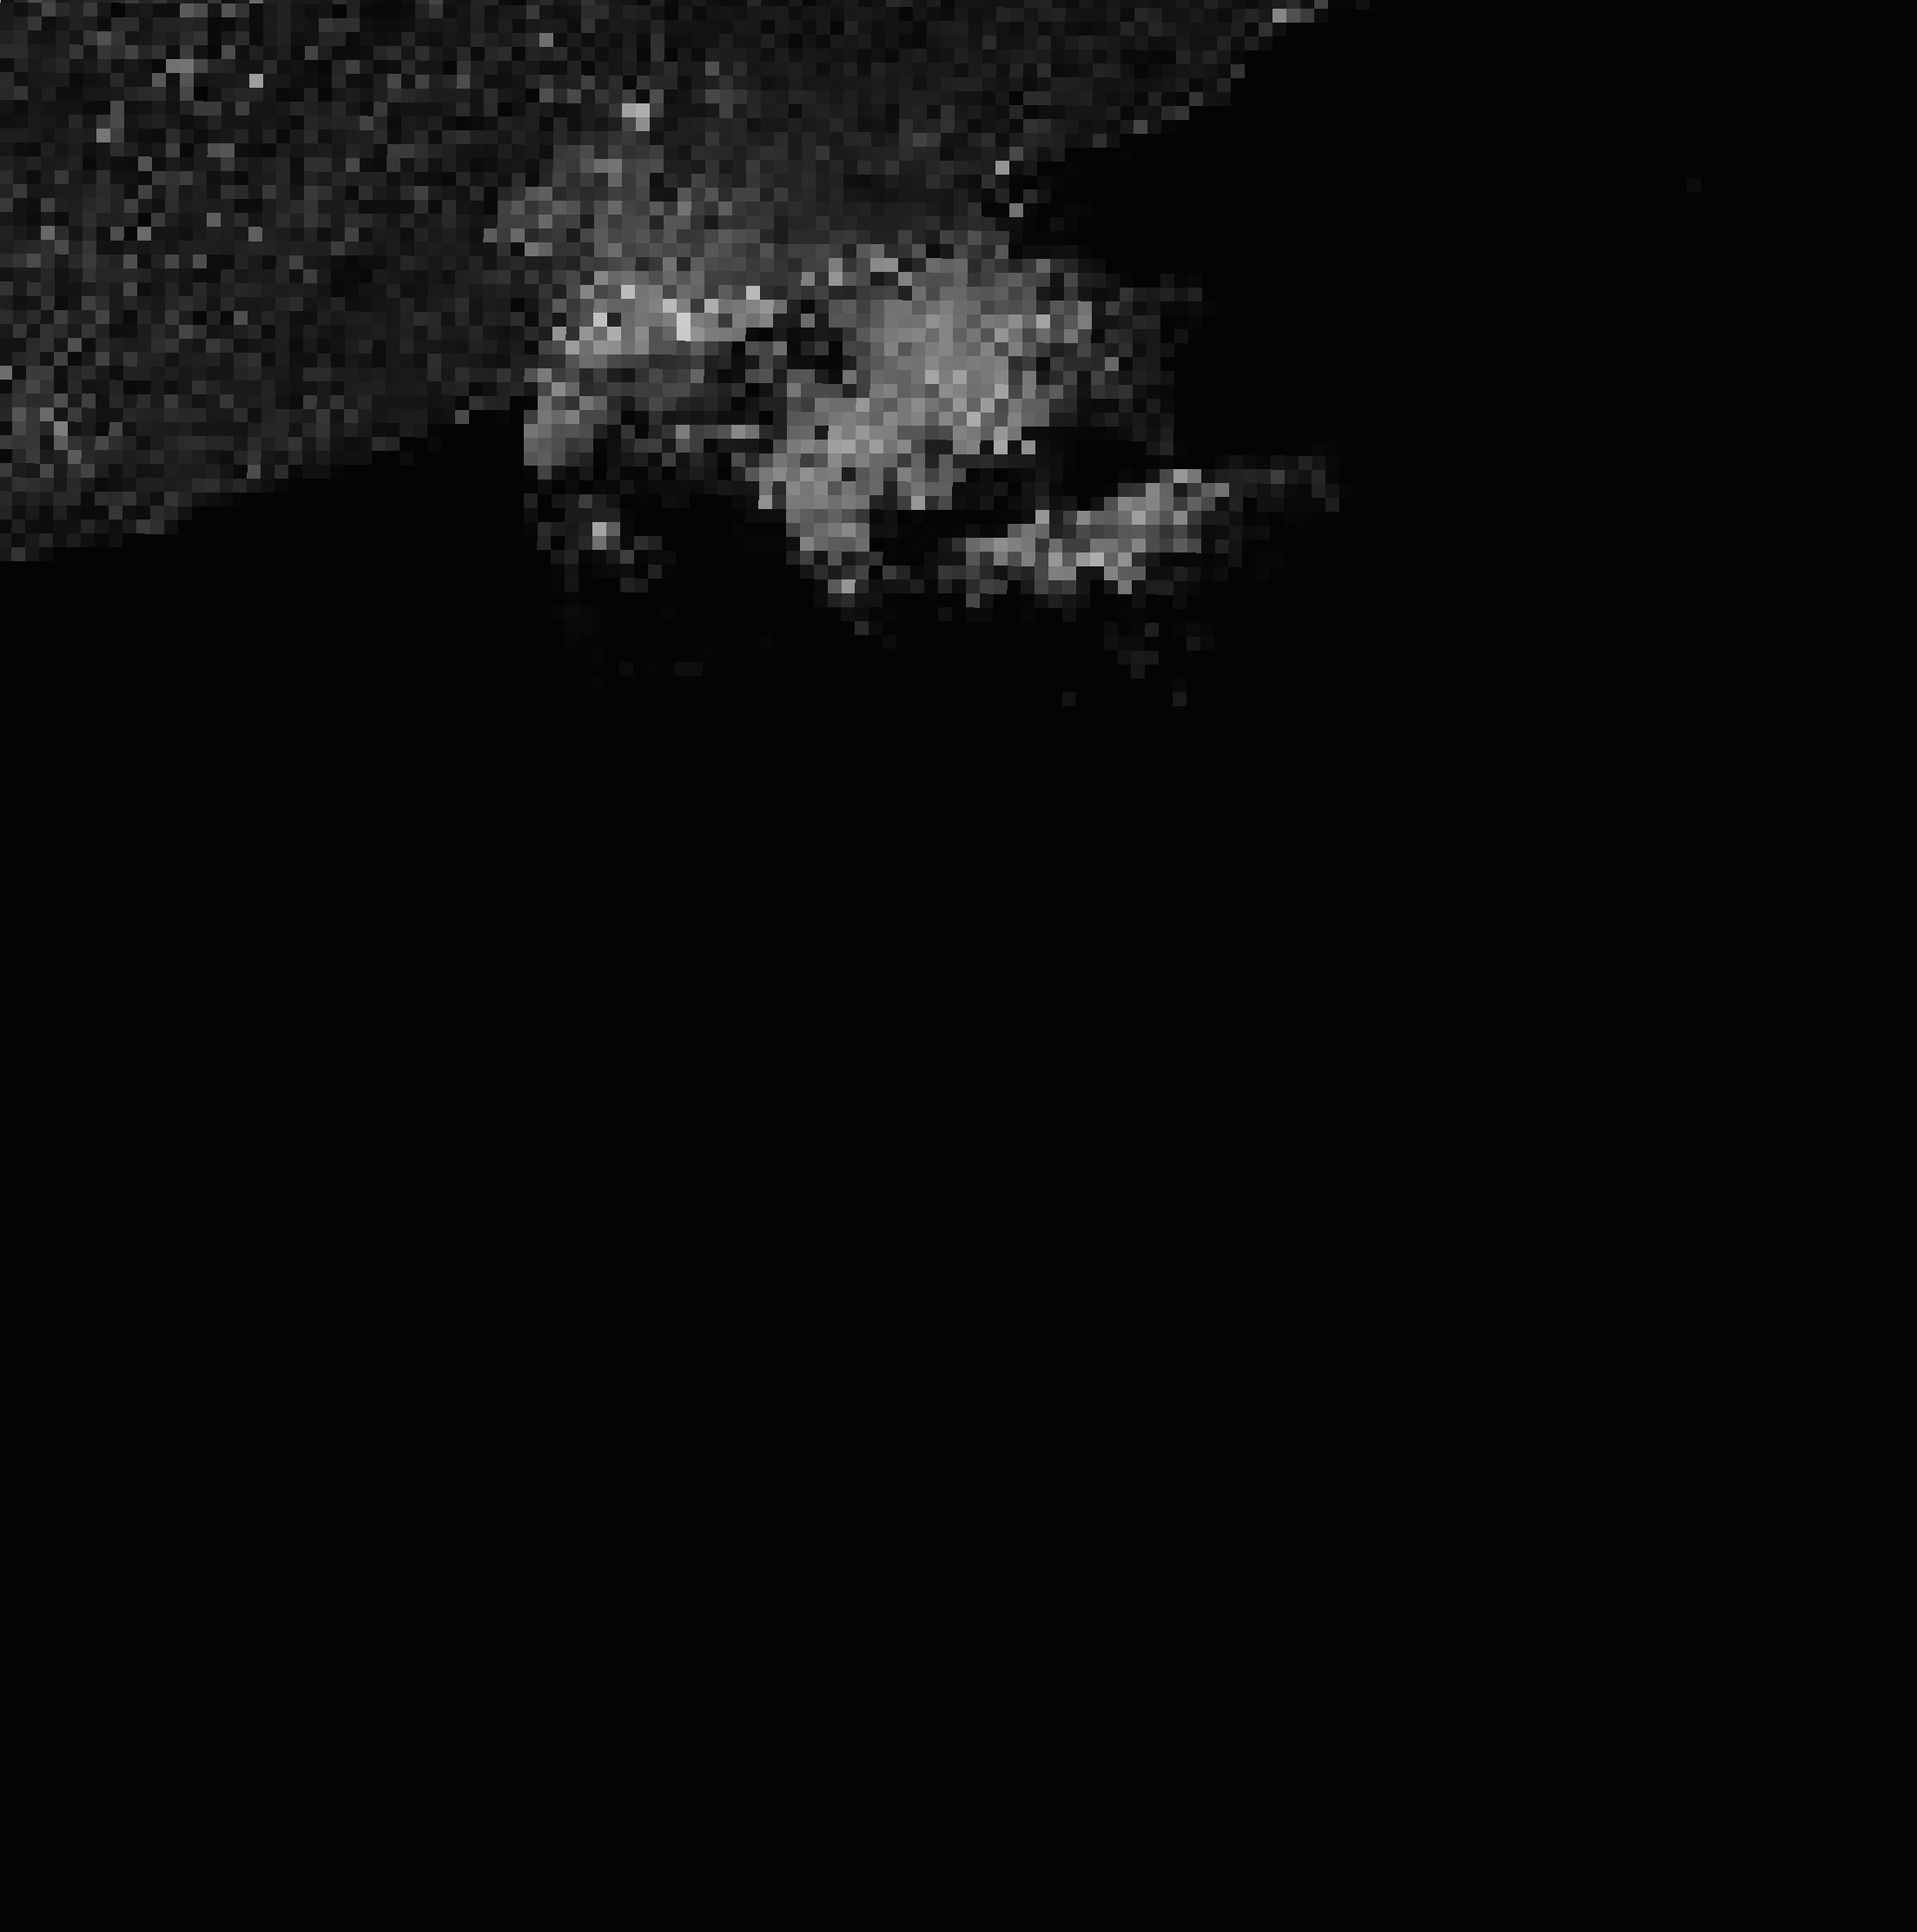
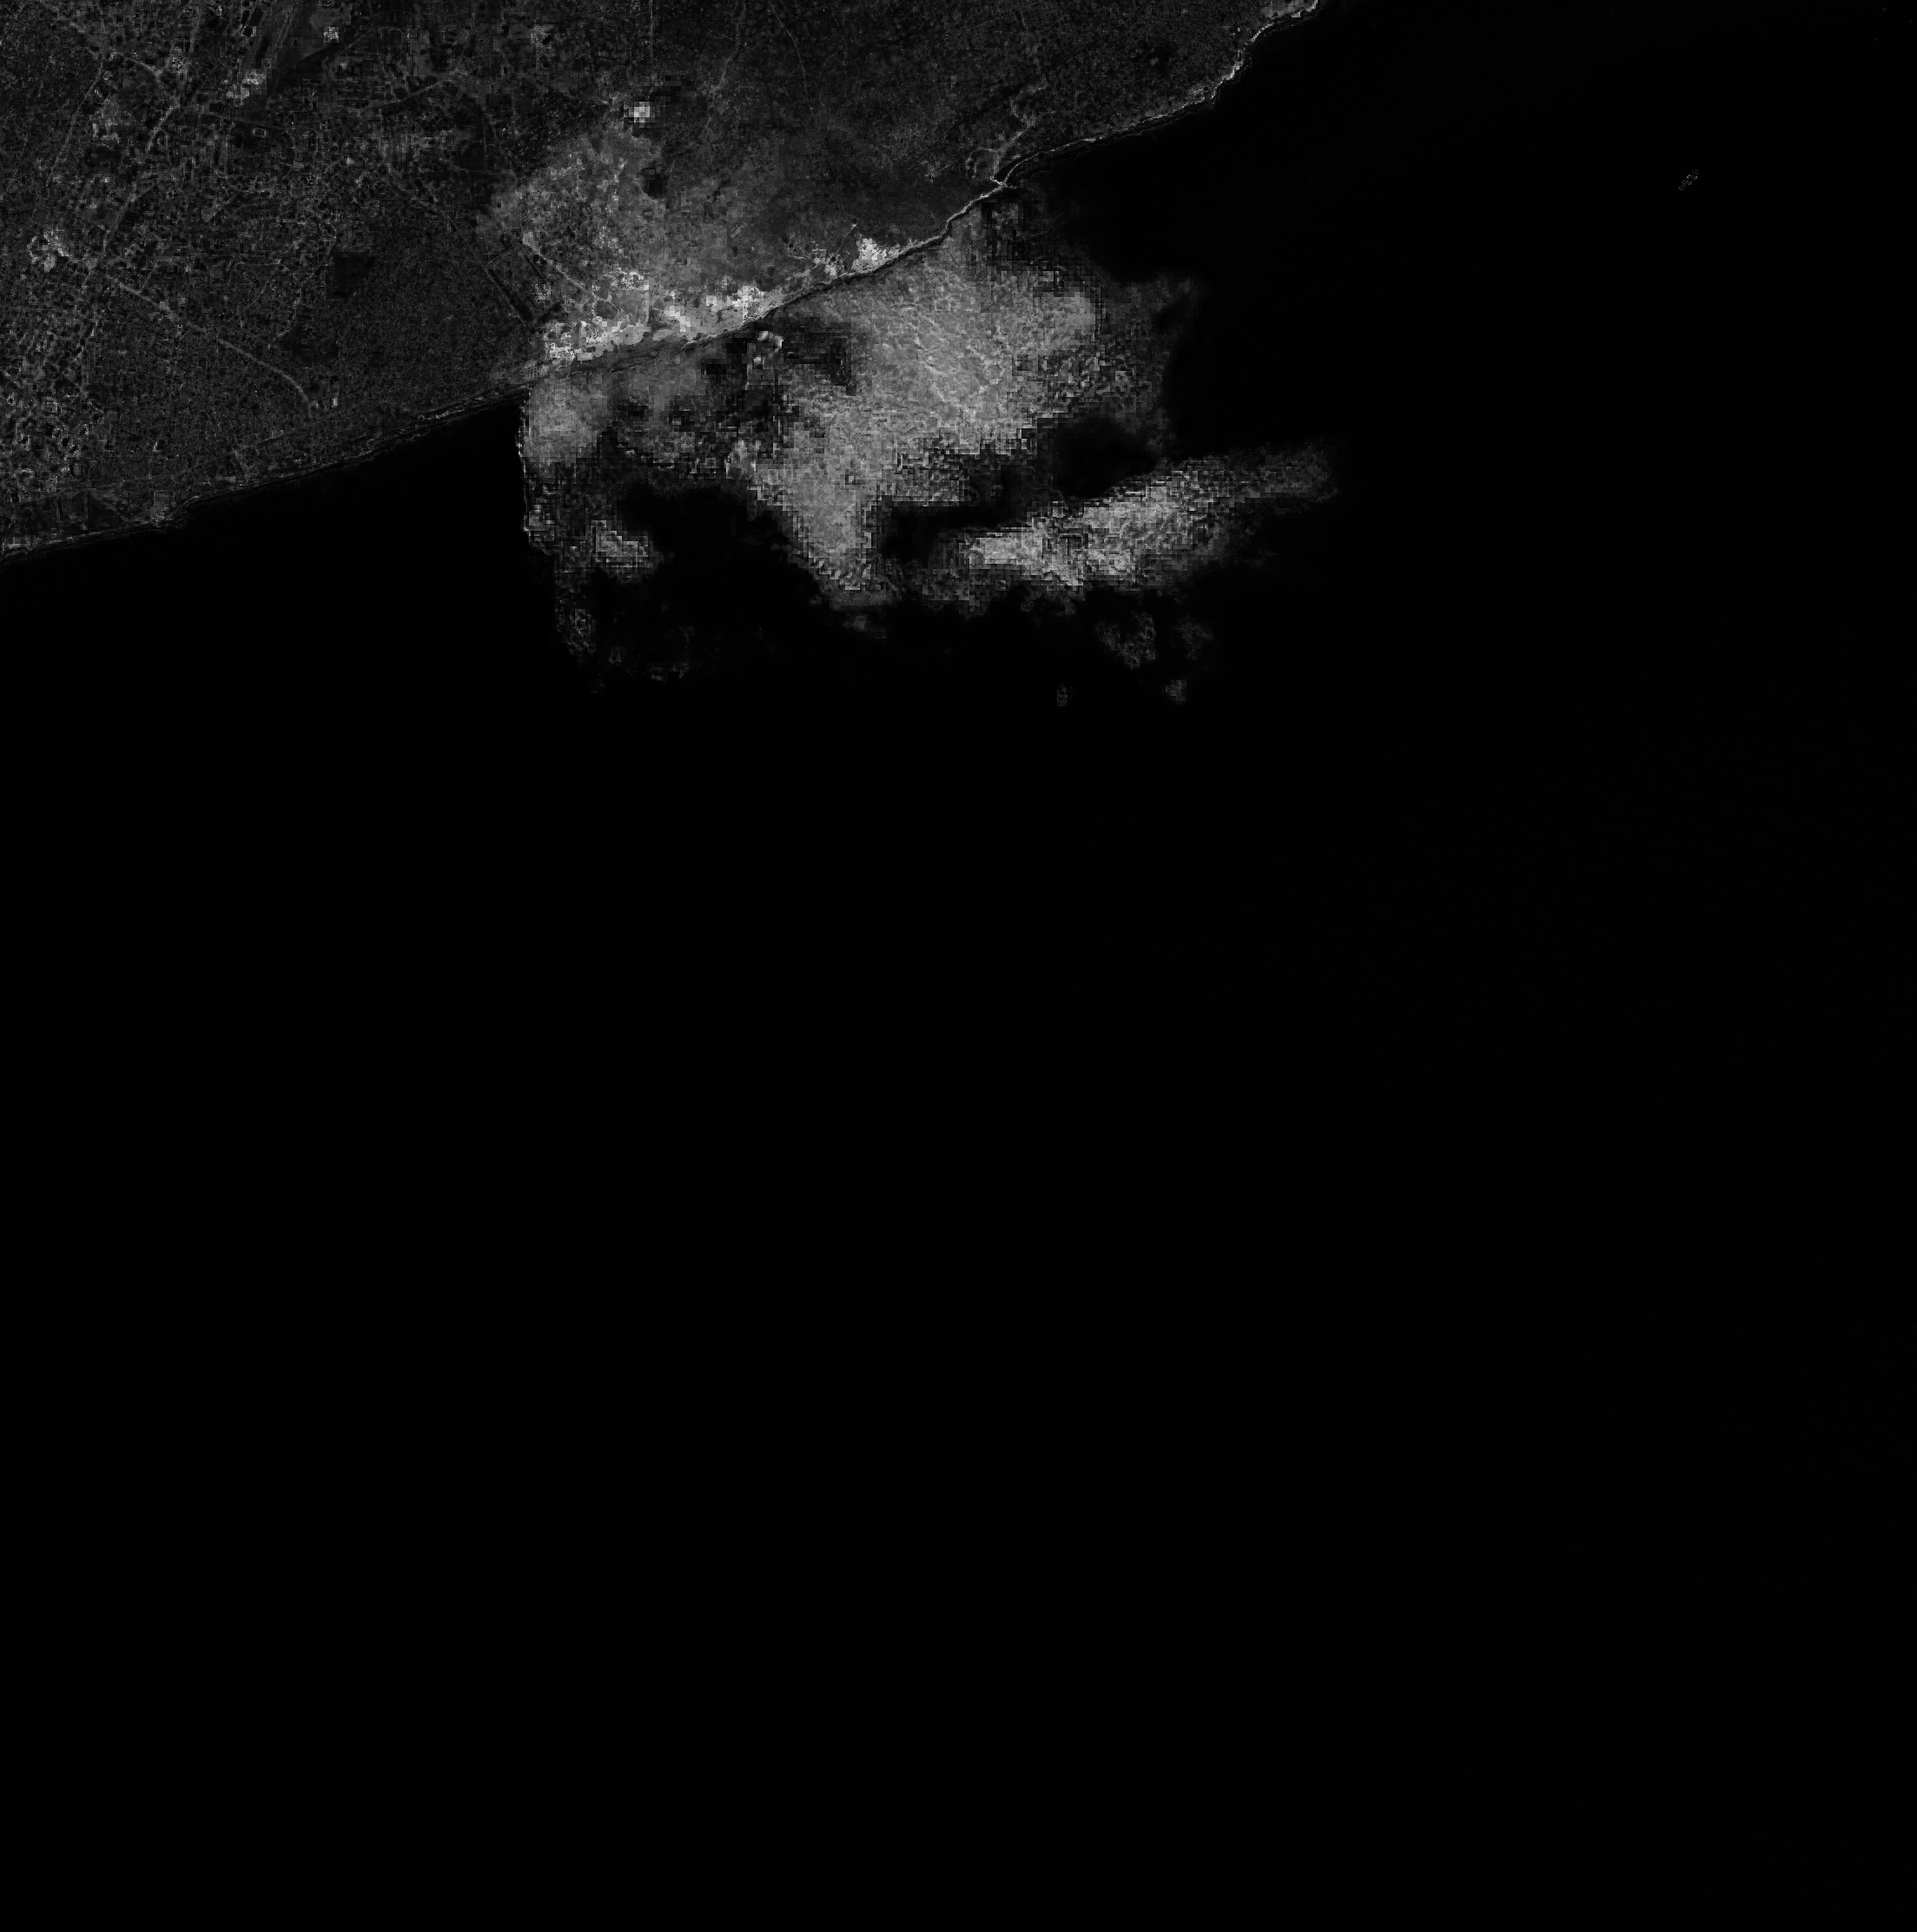
Added process code for k means clustering of clouds

diff --git a/process_mosaics.py b/process_mosaics.py
@@ -16,6 +16,7 @@ N_OPTICS_BANDS = 4
 
 files = []
 filelist = []
+'''
 for dirpath, dirnames, filenames in os.walk("./maps/accra"):
   for filename in [f for f in filenames if f.endswith(".png")]:
     filelist.append(os.path.join(dirpath,filename))
@@ -23,55 +24,170 @@ for dirpath, dirnames, filenames in os.walk("./maps/accra"):
 print(files)
 print('\n')
 print(filelist)
+'''
+filelist.append('./maps/accra/accra_rgb.png')
+files.append('accra_rgb.png')
 
 for idx, f in enumerate(filelist):
+    filename = os.path.splitext(files[idx])[0]
     with open(f, 'r'):
         image = Image.open(f)
-        data = np.asarray(image)
-        print("SHAPE: ", data.shape)
+        img = np.asarray(image)
 
         # turn into multichannel
-        if data.ndim == 2:
-            data = np.stack((data,)*3, axis=-1)
-        elif data.shape[2] == 4:
-            data = data[:,:,0:3] # get rid of alpha layer
-        print("SHAPE: ", data.shape) # make sure shape is (3, a, b) -> (b, a, 3), where 3 is RGB
+        if img.ndim == 2:
+            img = np.stack((img,)*3, axis=-1)
+        elif img.shape[2] == 4: # get rid of alpha chan
+            img = img[:,:,0:3] 
 
-        # THIS gets axis in he proper order, does not create tiled 9x9 image !!!
-        #data = np.moveaxis(data, 0, -1)  
-        #print("IMAGES SHAPE AXIS SWAPPED: ", data.shape)
-        # re-shape to get 1D array for each layer (a*b, number of bands)
-        img = data.reshape((-1, 3))
-        print("IMAGE RE-SHAPED: ", img.shape)
-        img = np.float32(img)  # convert to 32 bit float for K-Means
+        # ------------------------- Add B09 Band For Cloud Detection 
 
-        # Uncomment this for testing the mosaic geotif
-        # Canny edge settings also seem to work better with 20-25 as arguments
-        # Don't forget to comment out the overlay edge to original image code because it isn't implemented yet for geotiffs
+        b09_image = Image.open('./maps/accra/accra_b09.png')
+        b09 = np.asarray(b09_image, dtype = np.float32)
+        print("B09 SHAPE: ", b09.shape)
+        img= np.insert(img, img.shape[2], b09, axis = 2) # insert b09 band to alpha layer
+        print("SHAPE: ", img.shape) # make sure shape is (3, a, b) -> (b, a, 3), where 3 is RGB
+        og_shape = img.shape
+
+        # ------------------------- Add CLP Map For Cloud Detection 
+
+        clp_image = Image.open('./maps/accra/accra_clp.png')
+        clp = np.asarray(clp_image, dtype = np.float32)
+        print("B09 SHAPE: ", clp.shape)
+        img= np.insert(img, img.shape[2], b09, axis = 2) # insert b09 band to alpha layer
+        print("SHAPE: ", img.shape) # make sure shape is (3, a, b) -> (b, a, 3), where 3 is RGB
+        og_shape = img.shape
+
+        # ------------------------- Add B01 Band For Cloud Detection 
+
+        '''
+        aerosol = Image.open('./maps/accra/accra_aerosol.png')
+        a_data = np.asarray(aerosol, dtype = np.float32)
+        print("AERO SHAPE: ", a_data.shape)
+        """
+        min = np.amin(a_data) 
+        a_data = a_data - min
+        max = np.amax(a_data)
+        a_data = a_data * 255/max
+        """
+        a_data = a_data.astype(np.uint8)
+
+        im = Image.fromarray(a_data)
+        im.save('./maps/'+filename+"_aero.png")        
+        a_data = a_data.astype(np.float64)
+        '''
+        # ------------------------- Grey Intensity 
+        '''
+        data = data.astype(np.float64)
+
+        grey = ((data[:, :, 0] + data[:, :, 1] + data[:, :, 2] + a_data[:, :])/4)
+        min = np.amin(grey)
+        grey = grey - min
+        max = np.amax(grey)
+        grey = grey * 255/max
+        grey = np.stack((grey,)*3, axis=-1)
+        grey = grey.astype(np.uint8)
+        print(grey.shape)
+        im = Image.fromarray(grey)
+        im.save('./maps/'+filename+"_grey.png")        
+
+        grey_2 = (data[:, :, 0] * data[:, :, 1] * data[:, :, 2] * a_data[:,:])
+        grey_2 = np.sqrt(grey_2)
+        min = np.amin(grey_2)
+        grey_2 = grey_2 - min
+        max = np.amax(grey_2)
+        grey_2 = grey_2 * 255/max
+        grey_2 = np.stack((grey_2,)*3, axis=-1)
+        print(grey_2.shape)
+        grey_2 = grey_2.astype(np.uint8)
+        im = Image.fromarray(grey_2)
+        im.save('./maps/'+filename+"_grey_2.png")   
+
+        grey_3 = (data[:, :, 0]*data[:, :, 0] + data[:, :, 1]*data[:, :, 1] + data[:, :, 2]*data[:, :, 2]  + a_data[:, :]*a_data[:, :])
+        grey_3 = np.sqrt(grey_3)
+        min = np.amin(grey_3)
+        grey_3 = grey_3 - min
+        max = np.amax(grey_3)
+        grey_3 = grey_3 * 255/max
+        grey_3 = np.stack((grey_3,)*3, axis=-1)
+        grey_3 = grey_3.astype(np.uint8)
+        print(grey_3.shape)
+        im = Image.fromarray(grey_3)
+        im.save('./maps/'+filename+"_grey_3.png")        
+
+
+
+        data = data.astype(np.uint8)
+        
+        '''
+        # ------------------------- Increase image range to 0, 255
+
+        img = img.astype(np.float64)
+        for band in range(0, img.shape[2]):
+            min = np.amin(img[:,:, band])
+            img[:,:, band] = img[:,:, band] - min
+            max = np.amax(img[:,:, band])
+            img[:,:, band] *= 255.0/max
+        img = img.astype(np.uint8)
+
+        # ------------------------- Blur Images
+
+        img = cv2.GaussianBlur(img, (15, 15), 0)
+        im = Image.fromarray(img[:, :, 0:3])
+        im.save('./maps/'+filename+"_blurred.png")
+
+        # ------------------------- Increase image range to 0, 255
+        img = img.astype(np.float32)
+        for band in range(0, img.shape[2]):
+            min = np.amin(img[:,:, band])
+            img[:,:, band] = img[:,:, band] - min
+            max = np.amax(img[:,:, band])
+            img[:,:, band] *= 255.0/max
+            min = np.amin(img[:,:, band])
+            max = np.amax(img[:,:, band])
+            print(min)
+            print(max)
+        img = img.astype(np.uint8)
+
+
+        # ------------------------- Denoise 
+
+        img = img.astype(np.uint8)
+        alpha = img[:,:,3]
+        alpha2 = img[:,:,4]
+        img = cv2.fastNlMeansDenoisingColored(img[:,:,0:3], None, 10, 30, 21, 7)
+        alpha = cv2.fastNlMeansDenoising(alpha, None, 30, 21, 7)
+        alpha2 = cv2.fastNlMeansDenoising(alpha2, None, 30, 21, 7)
+
+        img= np.insert(img, 3, alpha, axis = 2) # insert b09 band to alpha layer
+        img= np.insert(img, 4, alpha2, axis = 2) # insert b09 band to alpha layer
+        im = Image.fromarray(img[:, :, 0:3])
+        im.save('./maps/'+filename+"_denoised.png")
 
         # ------------------------- Clustering through K-Means
+        img = img.astype(np.float32)
+        # re-shape to get 1D array for each layer (a*b, number of bands)
+        img = img.reshape((-1, img.shape[2]))
+
+        #print("IMAGE RE-SHAPED: ", img.shape)
         attempts = 10
-        K = 4
+        K = 12
         ret, label, center = cv2.kmeans(
             img, K, None, None, attempts, cv2.KMEANS_PP_CENTERS)
 
         center = np.uint8(center)
+        print(center)
         res = center[label.flatten()]
         # print("RES: ", res.shape)
         # print(images.reshape((images.shape[1], images.shape[2], 3)).shape)
-        clusterImg = res.reshape(data.shape)
-        im = Image.fromarray(clusterImg)
-        filename = os.path.splitext(files[idx])[0]
+        img = res.reshape(og_shape)
+        im = Image.fromarray(img[:, :, 0:3])
         im.save('./maps/'+filename+"_quantized.png")
-
-        # ------------------------- Blur Images
-        blurredImg = cv2.GaussianBlur(clusterImg, (15, 15), 0)
-        im = Image.fromarray(blurredImg)
-        im.save('./maps/'+filename+"_blurred.png")
 
         # ------------------------- Edge detecting with Canny
         # using float here since np.nan requires floating points
-        edge = cv2.Canny(blurredImg, 2, 5).astype("float")
+        '''
+        edge = cv2.Canny(img, 2, 5).astype("float")
         print("EDGE SHAPE: ", edge.shape)
         print("EDGE: ", edge)
         # Not entirely sure why he wanted to replace 0s with "Not a Number" values
@@ -98,5 +214,5 @@ for idx, f in enumerate(filelist):
         overlayedImg = np.bitwise_or(bckgndImg, thicBoiEdgeRGB)
         im = Image.fromarray(overlayedImg)
         im.save('./maps/'+filename+"_edge_overlay.png")
-
+        '''
 

diff --git a/get_maps.py b/get_maps.py
@@ -313,7 +313,6 @@ for s in sites:
 
         # none rgb images
         the_map = raw_maps[m]
-        # the_map = rgb_map[m] # Only uncomment if cloudless files made and want to avoid loading in big raw map file
 
         bands = the_map[..., :-1]
         mask = the_map[..., -1]
@@ -329,8 +328,6 @@ for s in sites:
             all_bands=True
         )
 
-
-        
         # Cloud prob data saving
         cloud_prob = []
         if not os.path.exists(folder_path+"/cloud_prob-"+str(m)+".npy"):
@@ -383,33 +380,32 @@ for s in sites:
         max = np.amax(the_map[:, :, 0])
         # the_map[:, :, 0] *=255/max
 
+        '''
         # Combined
         combined_img = np.empty(shape=(the_map[:, :, 0].shape[0],the_map[:, :, 0].shape[1]))
         for i in range(0, the_map[:, :, 0].shape[0]):
             for j in range(0, the_map[:, :, 0].shape[1]):
-                combined_img[i,j] = (the_map[i, j, 0]*4 + the_map[i, j, 1] + the_map[i, j, 2] + the_map[i, j, 3])/4
+                combined_img[i,j] = (the_map[i, j, 0] + the_map[i, j, 1] + the_map[i, j, 2] + the_map[i, j, 3])/4
 
         # Combined
         combined_img *=255/max
         combined_img = combined_img.astype(np.uint8)
         img_combined = Image.fromarray(combined_img, 'L')
         img_combined.show()
-
+        '''
 
         # B1
-        # min = np.amin(the_map[:, :, 0])
-        # the_map[:, :, 0] = the_map[:, :, 0] - min
-        # max = np.amax(the_map[:, :, 0])
-        
-        # the_map[:, :, 0]*=255/max
-        # b1 = the_map[:, :, 0].astype(np.uint8)
-        # print("b1 data type: ", b1.dtype)
-        # print("after max b1: ", np.amax(b1))
-        # print("after min b1: ", np.amin(b1))
-        # img_b1 = Image.fromarray(b1, 'L')
-        # img_b1.show()
+        the_map[:, :, 0]*=255
+        b1 = the_map[:, :, 0]
+        min = np.amin(b1)
+        b1 = b1 - min
+        max = np.amax(b1)
+        b1 = b1*255/max
+        b1 = b1.astype(np.uint8)
 
-
+        print("b1 data type: ", b1.dtype)
+        img_b1 = Image.fromarray(b1, 'L')
+        img_b1.show()
 
         # Infrared
         # the_map[:, :, 7]*=255
@@ -420,6 +416,38 @@ for s in sites:
         # img_infr = Image.fromarray(infrared, 'L')
         # img_infr.show()
 
+        # B09
+        '''
+        the_map[:, :, 9]*=255
+        b9 = the_map[:, :, 9]
+        min = np.amin(b9)
+        b9 = b9 - min
+        max = np.amax(b9)
+        b9 = b9*255/max
+        b9 = b9.astype(np.uint8)
+
+        print("b9 data type: ", b9.dtype)
+        img_b9 = Image.fromarray(b9, 'L')
+        img_b9.show()
+        '''
+
+        '''
+        # B10
+        the_map[:, :, 10]*=255
+        b10 = the_map[:, :, 9]
+        min = np.amin(b10)
+        b10 = b10 - min
+        max = np.amax(b10)
+        b10 = b10*255/max
+        
+        b10 = b10.astype(np.uint8)
+
+        print("b10 data type: ", b10.dtype)
+        print("after max b10: ", np.amax(b10))
+        print("after min b10: ", np.amin(b10))
+        img_b10 = Image.fromarray(b10, 'L')
+        img_b10.show()
+        '''
         # B11
         # the_map[:, :, 11]*=255
         # b11 = the_map[:, :, 11].astype(np.uint8)
